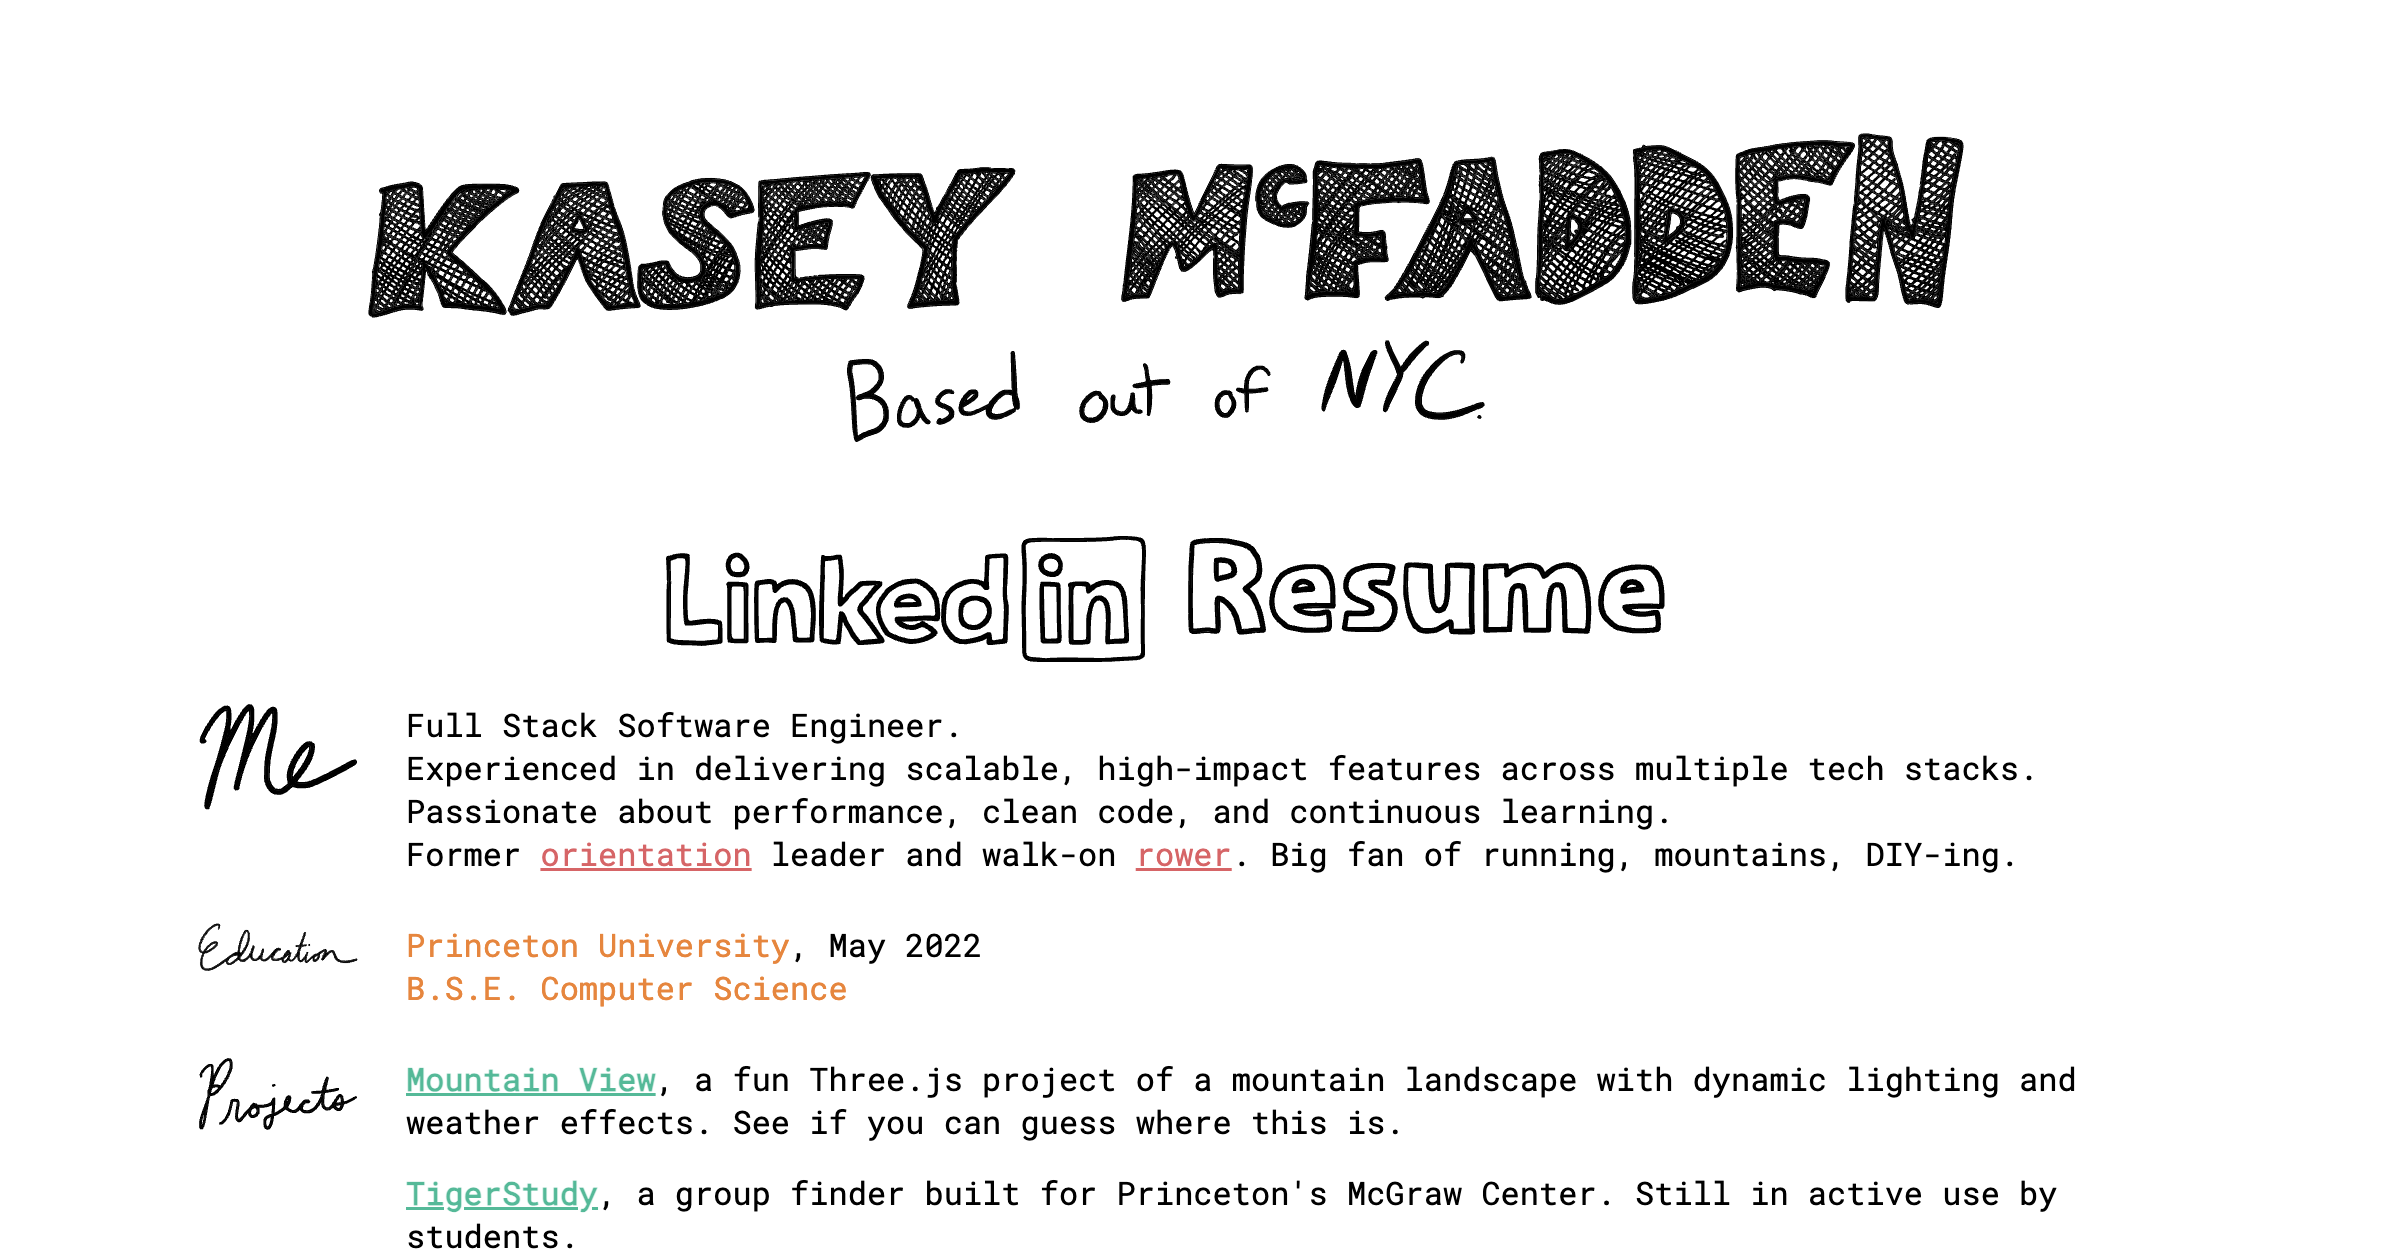
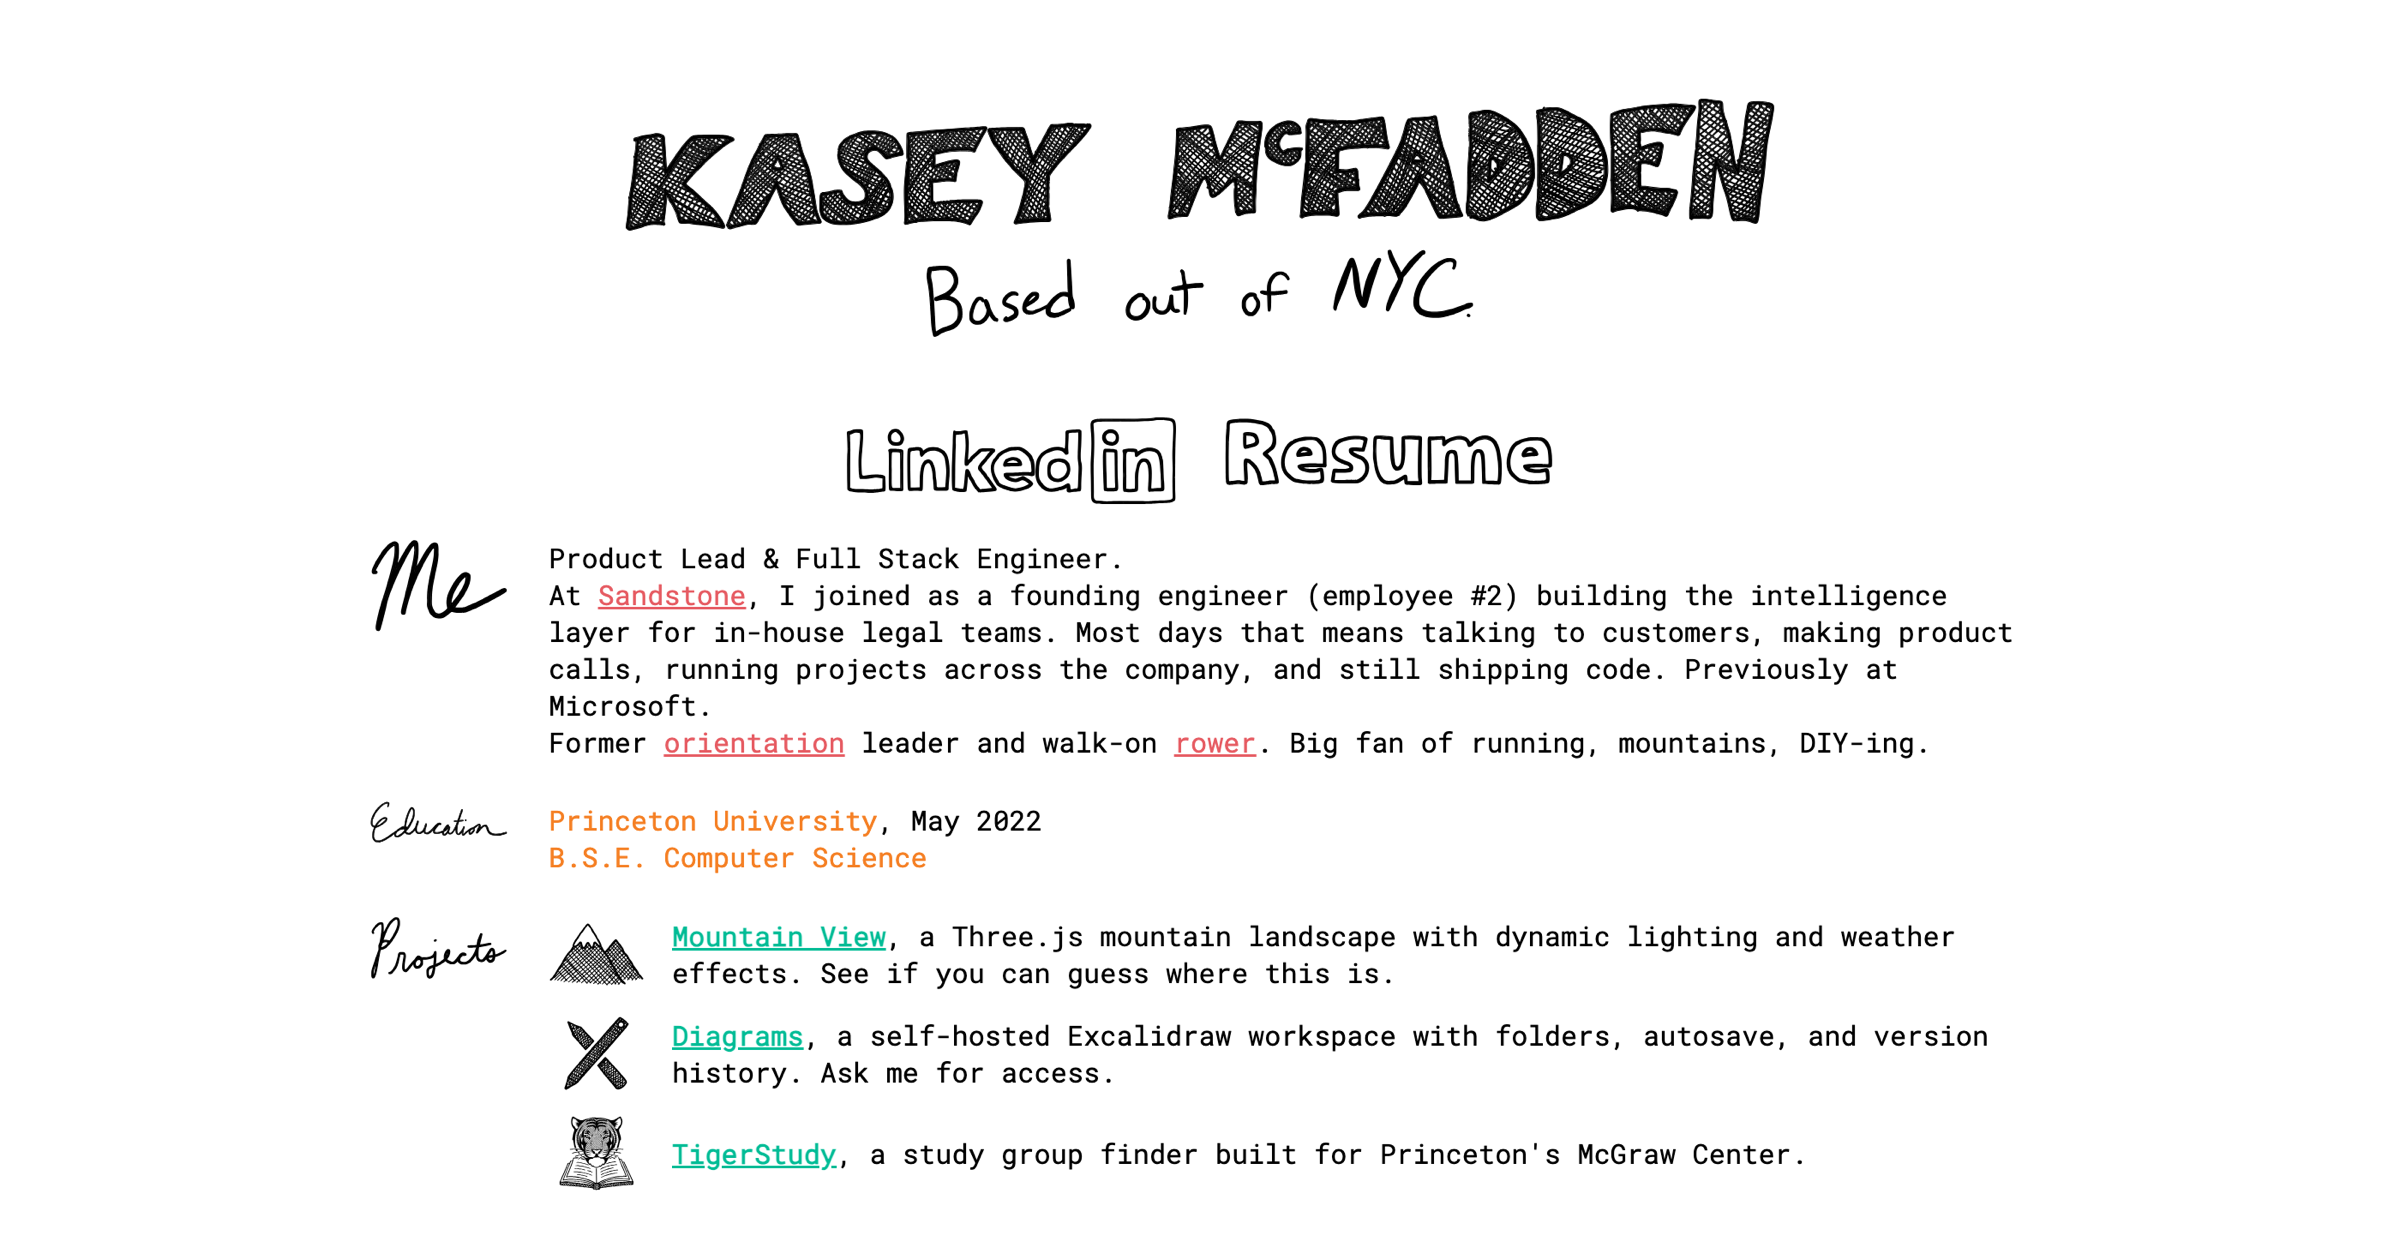
feat: pair project drawings with descriptions and refresh meta tags

diff --git a/index.html b/index.html
@@ -15,11 +15,11 @@
   <link rel="stylesheet" href="css/style.css">
   <link rel="icon" type="image/png" href="/favicon.png">
   <meta name="description"
-    content="Kasey McFadden - Full Stack Software Engineer based in NYC. Princeton University graduate passionate about performance, clean code, and continuous learning.">
+    content="Kasey McFadden - Product Lead & Full Stack Engineer based in NYC. Founding engineer at Sandstone, previously at Microsoft. Princeton Computer Science.">
 
   <!-- Open Graph -->
   <meta property="og:title" content="Kasey McFadden">
-  <meta property="og:description" content="Full Stack Software Engineer based in NYC.">
+  <meta property="og:description" content="Product Lead & Full Stack Engineer based in NYC.">
   <meta property="og:type" content="website">
   <meta property="og:url" content="https://kaseym.com">
   <meta property="og:image" content="https://kaseym.com/static/og-preview.png">
@@ -74,18 +74,39 @@
         </div>
       </section>
 
-      <section class="projSection">
-        <img class="infoIcon" src="static/sketched_projects.svg" alt="Projects" width="280" height="129" loading="lazy">
-        <div class="projTiles">
-          <a class="projTile" target="_blank" rel="noopener" href="https://mountain-view.kaseym.com/" title="Mountain View, a fun Three.js project of a mountain landscape with dynamic lighting and weather effects. See if you can guess where this is.">
-            <img src="static/sketched_mountain.svg" alt="Mountain View" width="887" height="592" loading="lazy">
-          </a>
-          <a class="projTile" target="_blank" rel="noopener" href="https://diagrams.kaseym.com/" title="Diagrams, a self-hosted Excalidraw workspace with folders, autosave, and version history.">
-            <img src="static/sketched_diagrams.svg" alt="Diagrams" width="654" height="729" loading="lazy">
-          </a>
-          <a class="projTile" target="_blank" rel="noopener" href="https://tigerapps.org/archive/" title="TigerStudy, a study group finder built for Princeton's McGraw Center.">
-            <img src="static/sketched_tigerstudy.svg" alt="TigerStudy" width="2593" height="2575" loading="lazy">
-          </a>
+      <section class="infoSection">
+        <img class="infoIcon" src="static/sketched_projects.svg" alt="" width="280" height="129" loading="lazy">
+        <div class="infoContent">
+          <div class="proj">
+            <a class="projDrawing" target="_blank" rel="noopener" href="https://mountain-view.kaseym.com/" tabindex="-1" aria-hidden="true">
+              <img src="static/sketched_mountain.svg" alt="" width="887" height="592" loading="lazy">
+            </a>
+            <div>
+              <a class="projText" target="_blank" rel="noopener" href="https://mountain-view.kaseym.com/">Mountain View</a>,
+              a Three.js mountain landscape with dynamic lighting and weather effects. See if you can guess where
+              this is.
+            </div>
+          </div>
+
+          <div class="proj">
+            <a class="projDrawing" target="_blank" rel="noopener" href="https://diagrams.kaseym.com/" tabindex="-1" aria-hidden="true">
+              <img src="static/sketched_diagrams.svg" alt="" width="654" height="729" loading="lazy">
+            </a>
+            <div>
+              <a class="projText" target="_blank" rel="noopener" href="https://diagrams.kaseym.com/">Diagrams</a>,
+              a self-hosted Excalidraw workspace with folders, autosave, and version history. Ask me for access.
+            </div>
+          </div>
+
+          <div class="proj">
+            <a class="projDrawing" target="_blank" rel="noopener" href="https://tigerapps.org/archive/" tabindex="-1" aria-hidden="true">
+              <img src="static/sketched_tigerstudy.svg" alt="" width="2593" height="2575" loading="lazy">
+            </a>
+            <div>
+              <a class="projText" target="_blank" rel="noopener" href="https://tigerapps.org/archive/">TigerStudy</a>,
+              a study group finder built for Princeton's McGraw Center.
+            </div>
+          </div>
         </div>
       </section>
     </main>

diff --git a/css/style.css b/css/style.css
@@ -145,37 +145,29 @@ img {
 }
 
 .proj {
+  display: flex;
+  align-items: center;
+  gap: 1rem;
   padding-bottom: 14px;
 }
 
-/* Empty third column mirrors the label so the drawings center on the page. */
-.projSection {
-  display: grid;
-  grid-template-columns: 80px 1fr 80px;
-  align-items: start;
-  gap: 1.5rem;
-  margin-bottom: 1.5rem;
-}
-
-.projTiles {
+/* Fixed box so the text lines up regardless of each drawing's aspect ratio. */
+.projDrawing {
+  flex-shrink: 0;
   display: flex;
   justify-content: center;
-  align-items: center;
-  gap: 5.5rem;
+  width: 3.5rem;
 }
 
-.projTile {
-  flex-shrink: 0;
-}
-
-.projTile img {
+.projDrawing img {
   width: auto;
-  max-width: none;
-  height: 7.5rem;
+  max-width: 100%;
+  height: 2.75rem;
+  object-fit: contain;
 }
 
-.projTile:hover img {
-  filter: invert(31%) sepia(74%) saturate(1990%) hue-rotate(192deg) brightness(93%) contrast(103%);
+.projDrawing:hover img {
+  opacity: 0.7;
 }
 
 .projText {
@@ -189,17 +181,6 @@ img {
 }
 
 /* Responsive adjustments */
-
-@media (max-width: 880px) {
-  .projSection {
-    grid-template-columns: 1fr;
-    justify-items: center;
-  }
-
-  .projTiles {
-    gap: 3rem;
-  }
-}
 
 @media (max-width: 576px) {
   .content {
@@ -258,16 +239,8 @@ img {
     max-width: 100%;
   }
 
-  .projSection {
-    gap: 0.6rem;
-    margin-bottom: 1rem;
-  }
-
-  .projTiles {
-    gap: 1.5rem;
-  }
-
-  .projTile img {
-    height: 4.5rem;
+  .proj {
+    flex-direction: column;
+    gap: 0.4rem;
   }
 }
